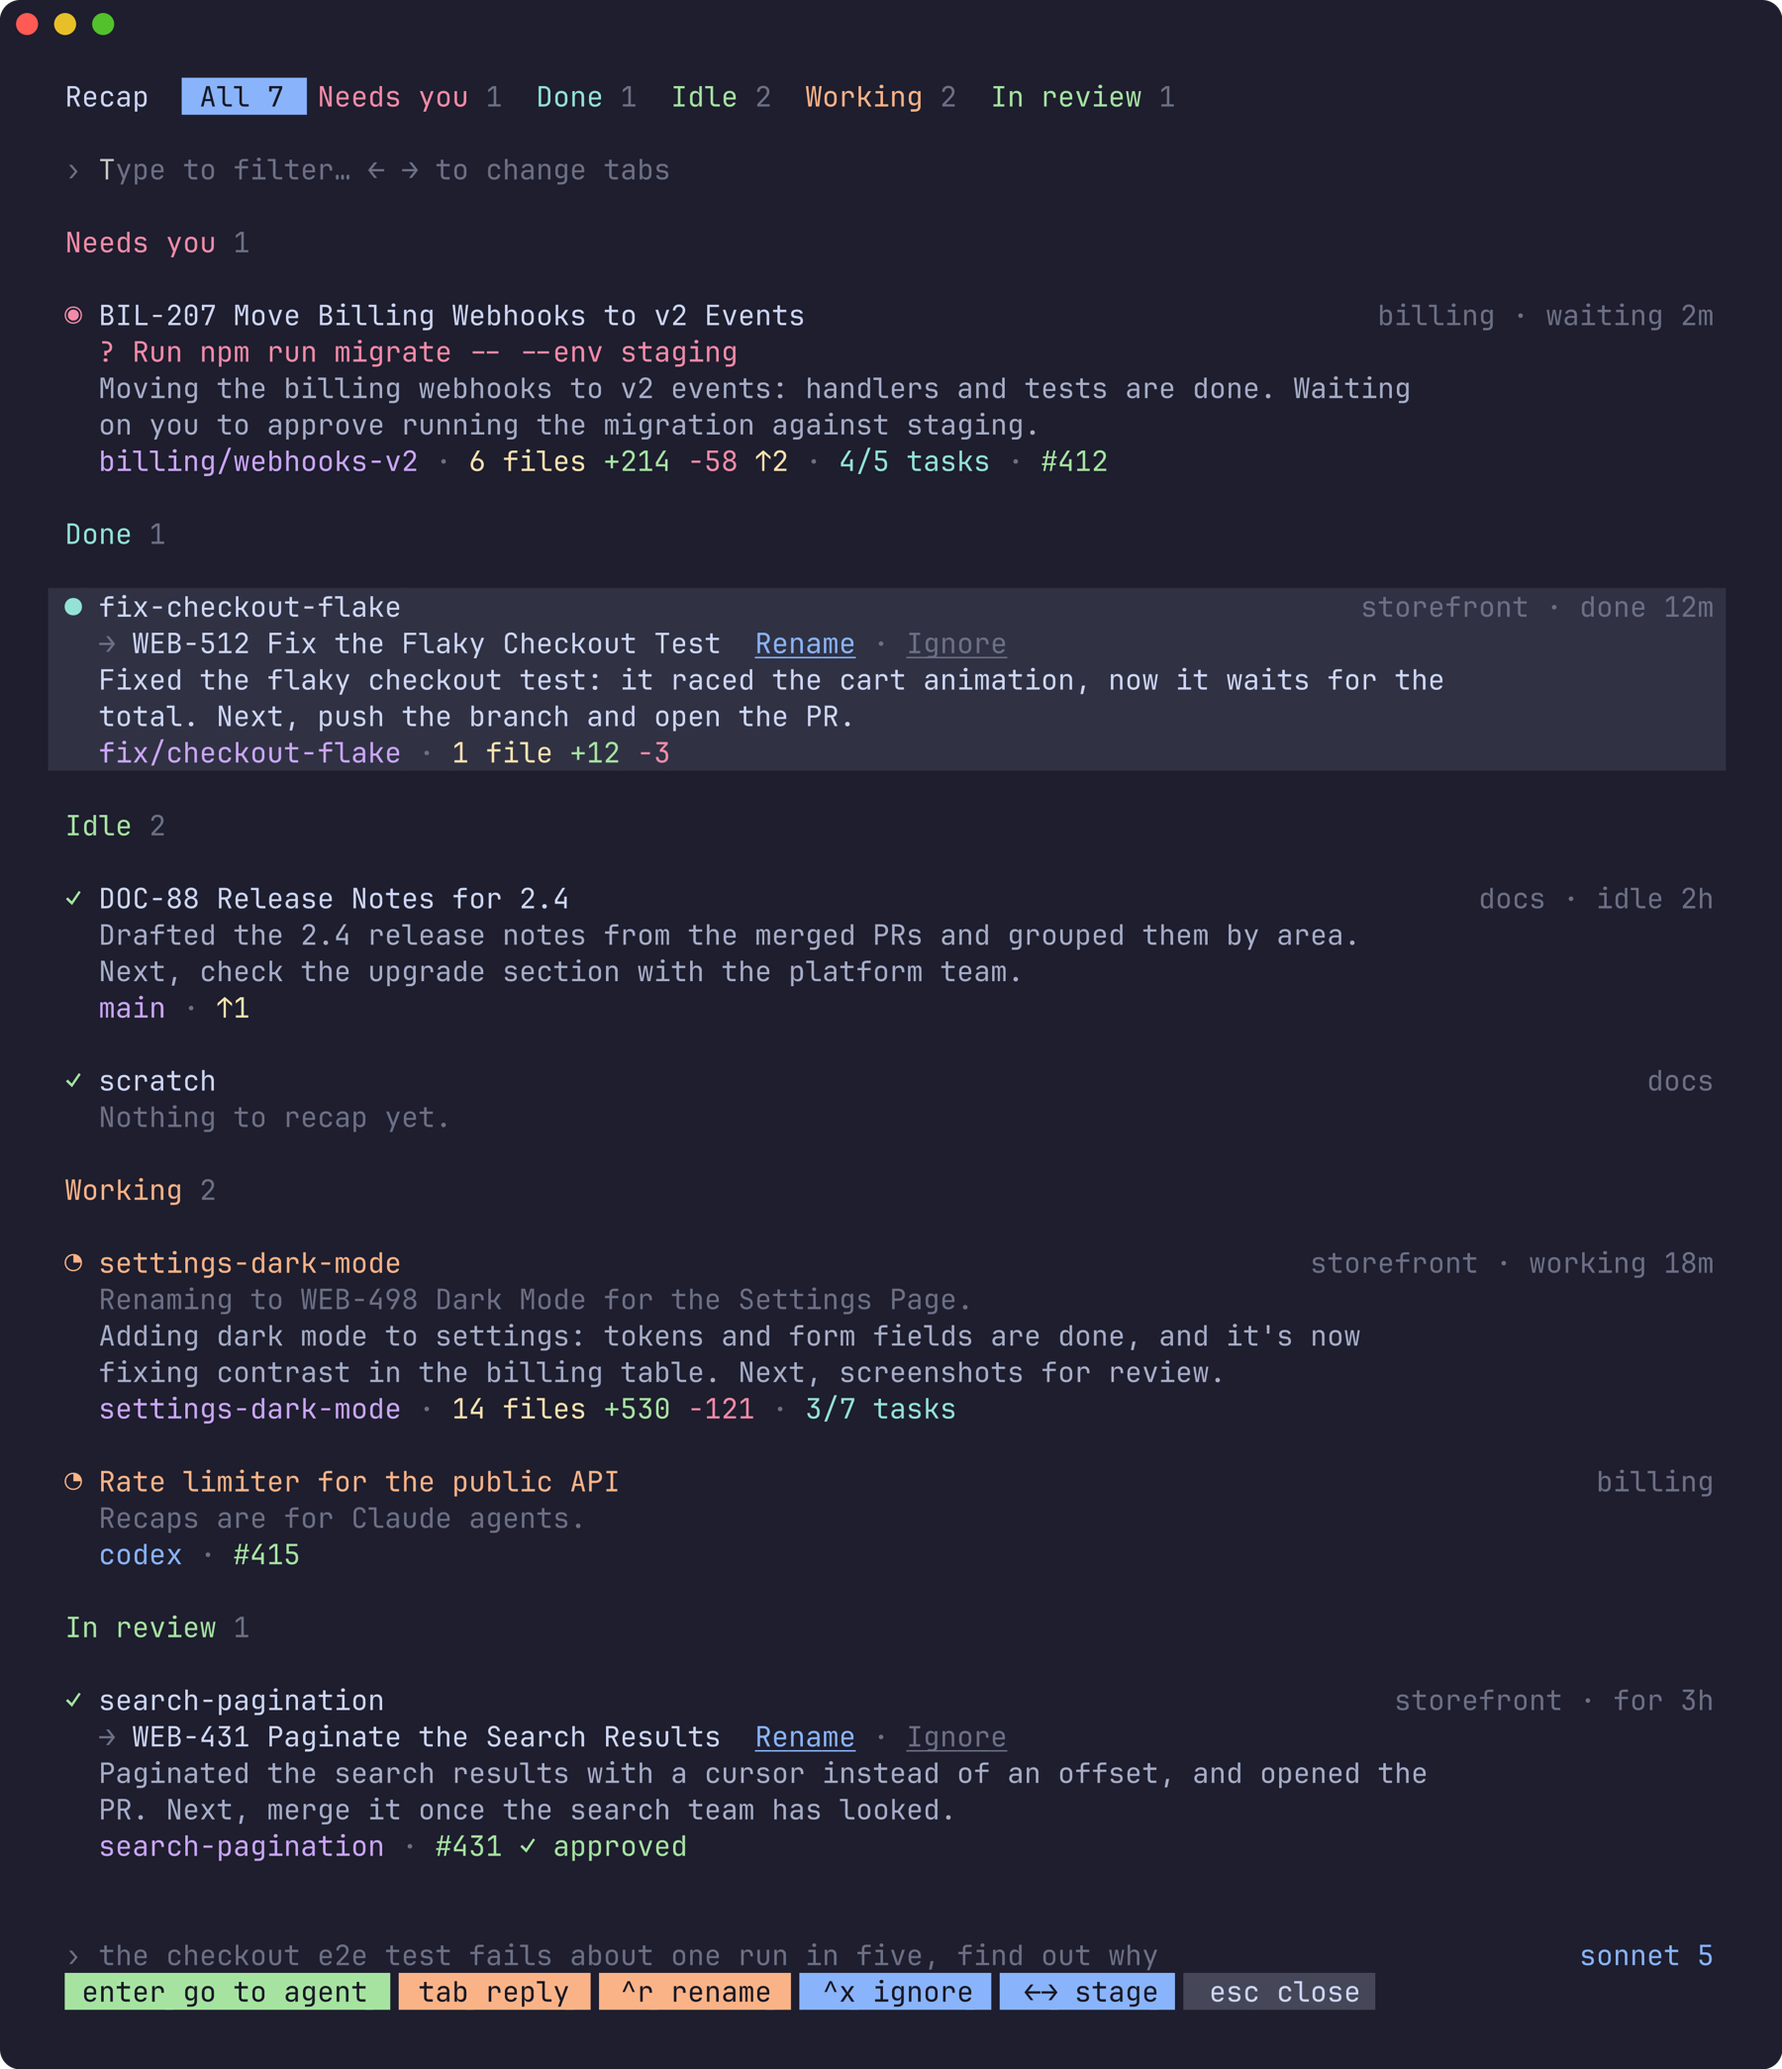
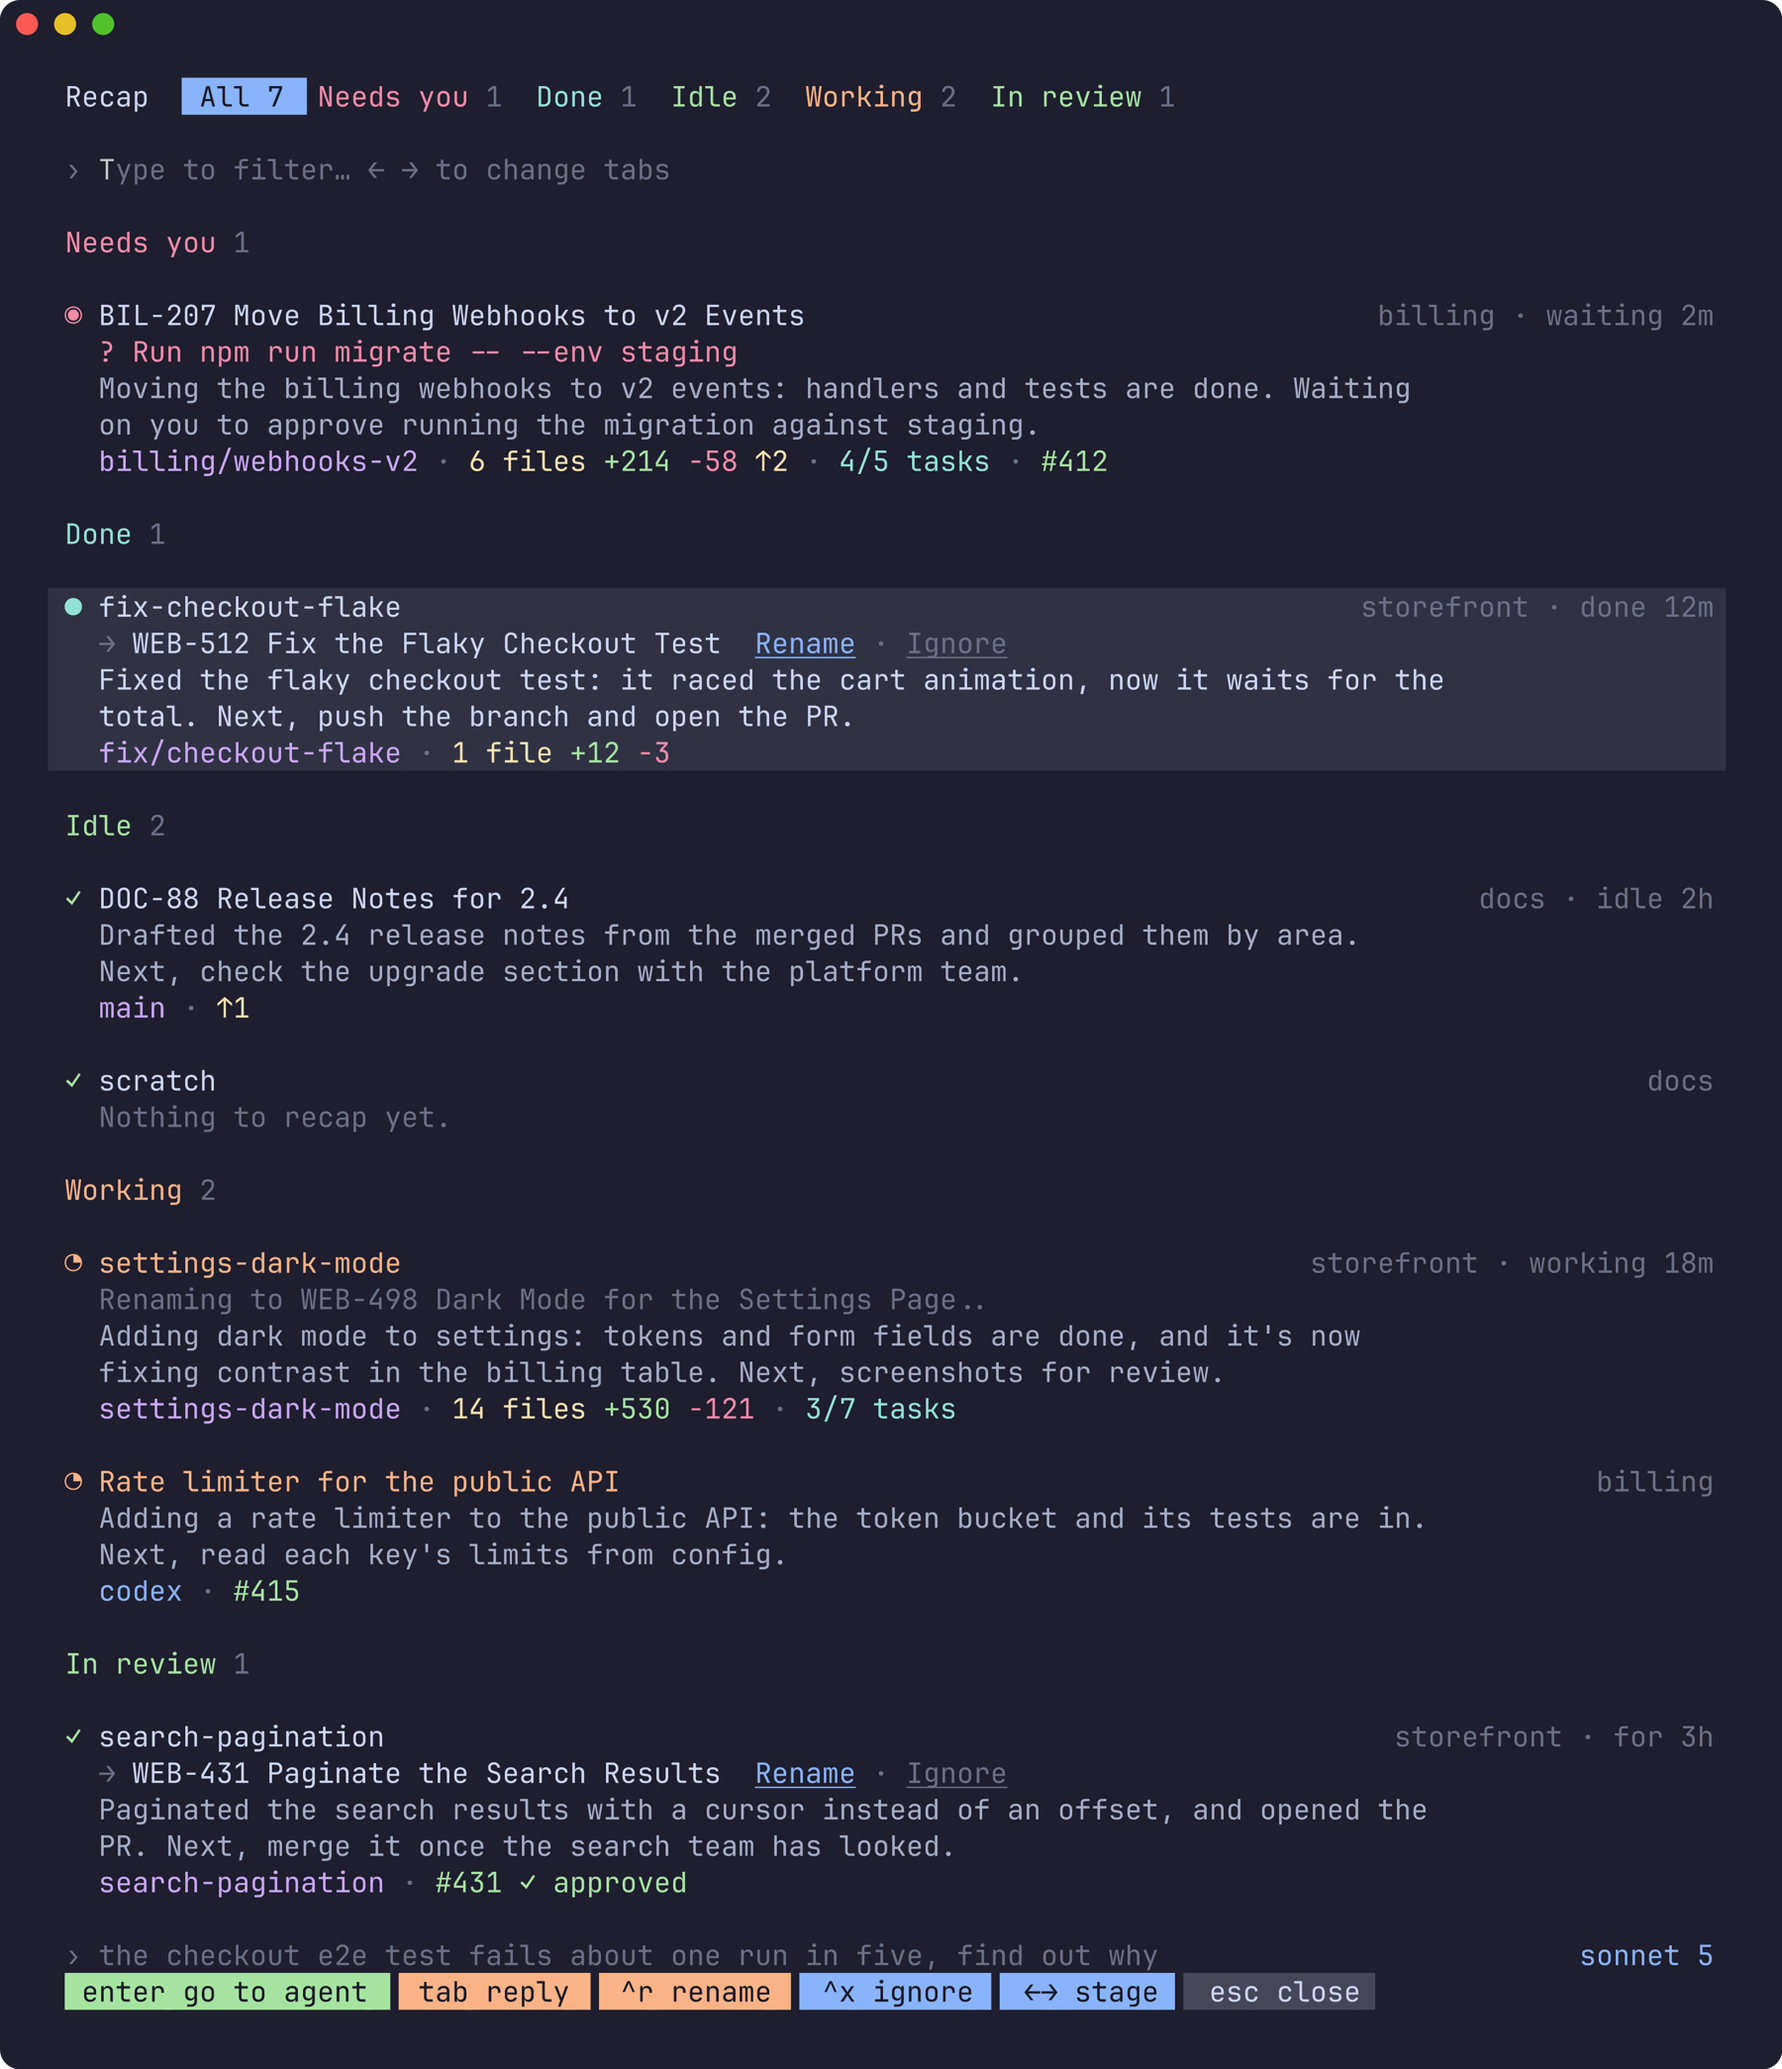
Release 0.6.0: Codex agents are recapped, as Claude's are
The demo's Codex agent has a recap, as a real one now does, and the
screenshots are regenerated with it.

diff --git a/tui_test.go b/tui_test.go
@@ -85,8 +85,8 @@ func TestOutOfDateRecapsAreRewrittenOnOpen(t *testing.T) {
 
 func TestRowsSayWhyThereIsNoRecap(t *testing.T) {
 	m, _ := demoModel(t)
-	if e := m.entries["w2:p3"]; e.note != "Recaps aren't available for this agent." {
-		t.Errorf("codex: %q", e.note)
+	if e := m.entries["w2:p3"]; e.note != "" || e.recap == nil || !strings.Contains(e.recap.Text, "rate limiter") {
+		t.Errorf("codex: %q, %+v", e.note, e.recap)
 	}
 	if e := m.entries["w3:p4"]; e.note != "Nothing to recap yet." || e.recapping {
 		t.Errorf("an empty conversation: %q, recapping %v", e.note, e.recapping)
@@ -107,7 +107,7 @@ func TestTheViewShowsStatusTitleAndRecap(t *testing.T) {
 		"settings-dark-mode · 14 files +530 −121 · 3/7 tasks", "main · ↑1", "codex · #415",
 		"opus 5.5 · acceptEdits",
 		"● Flaky checkout e2e test", "✓ Release notes for 2.4",
-		"scratch", "Nothing to recap yet.", "Recaps aren't available for this agent.",
+		"scratch", "Nothing to recap yet.", "Adding a rate limiter to the public API",
 		"enter go to agent   tab reply   ^r suggest title   ←→ stage   esc close", // pills: a cell either side, one between
 	} {
 		if !strings.Contains(v, want) {
@@ -470,12 +470,13 @@ func TestCtrlRAsksForATitleWhenNoneIsSuggested(t *testing.T) {
 	if e := m.entries["w3:p2"]; titled(e) || !strings.Contains(m.flash, "would keep the title it has") {
 		t.Errorf("flash %q", m.flash)
 	}
-	// Another agent's: titles are asked of Claude's own conversations.
+	// A Codex agent is asked for one as a Claude agent is.
 	m = selectPane(m, "w2:p3")
 	next, cmd = m.Update(tea.KeyMsg{Type: tea.KeyCtrlR})
-	if cmd != nil || next.(model).flash != "Recaps aren't available for this agent." {
-		t.Errorf("flash %q", next.(model).flash)
+	if m = next.(model); cmd == nil || !m.entries["w2:p3"].titling {
+		t.Errorf("codex wasn't asked for a title: flash %q", m.flash)
 	}
+	m = settle(t, m, cmd)
 	// Nothing said yet: nothing to go by.
 	m = selectPane(m, "w3:p4")
 	next, cmd = m.Update(tea.KeyMsg{Type: tea.KeyCtrlR})

diff --git a/demo.go b/demo.go
@@ -98,6 +98,9 @@ var demoAgents = []demoAgent{
 	{
 		agent: agentInfo{PaneID: "w2:p3", Cwd: "/demo/w2-p3", WorkspaceID: "w2", Agent: "codex", Status: "working", Title: "Rate limiter for the public API", StateChangeSeq: 7,
 			Tokens: map[string]string{"pr": "#415"}},
+		// Codex recaps itself, as Claude does; its session says less about it.
+		session: "0b3c9a51-5d7e-4f7a-9c35-1a2b3c4d5e07", age: 6 * time.Minute, current: true,
+		recap: "Adding a rate limiter to the public API: the token bucket and its tests are in. Next, read each key's limits from config.",
 	},
 }
 
@@ -145,6 +148,9 @@ func (d *demoSource) session(_ context.Context, info agentInfo) (claudeSession, 
 		return claudeSession{}, errNotClaude
 	}
 	s := claudeSession{ID: a.session, Cwd: "/demo", Meta: a.meta}
+	if a.agent.Agent == "codex" {
+		s.Agent, s.Native = "codex", true
+	}
 	if s.Meta.Model != "" {
 		s.Meta.Active = d.started.Add(a.active)
 		s.Meta.PendingAt = s.Meta.Active
@@ -250,5 +256,6 @@ func (d *demoSource) settled(s claudeSession) error {
 	return nil
 }
 
-// capable: the demo's recaps are its Claude agents'.
-func (d *demoSource) capable(a agentInfo) bool { return a.Agent == "claude" }
+// capable: the demo's recaps are its Claude and Codex agents', as the
+// plugin's are unless config.json says otherwise.
+func (d *demoSource) capable(a agentInfo) bool { return a.Agent == "claude" || a.Agent == "codex" }

diff --git a/CHANGELOG.md b/CHANGELOG.md
@@ -1,6 +1,6 @@
 # Changelog
 
-## Unreleased
+## 0.6.0 - 2026-10-11
 
 Recaps for other agents. `agents` in `config.json` lists the ones recapped,
 `["claude", "codex"]` unless you say otherwise.
